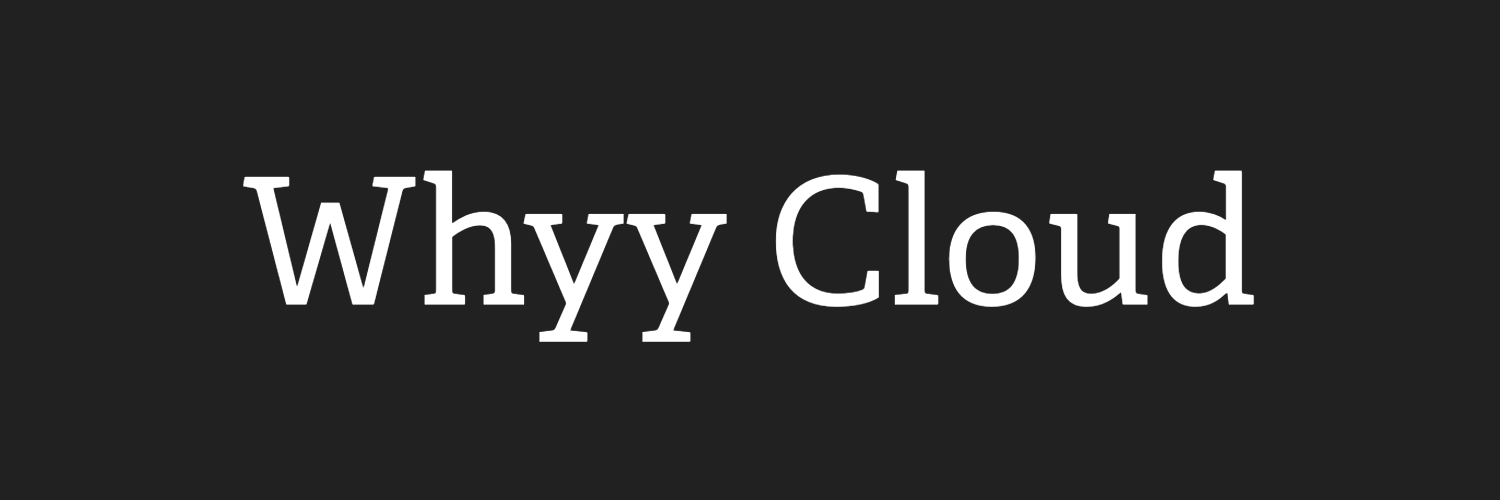
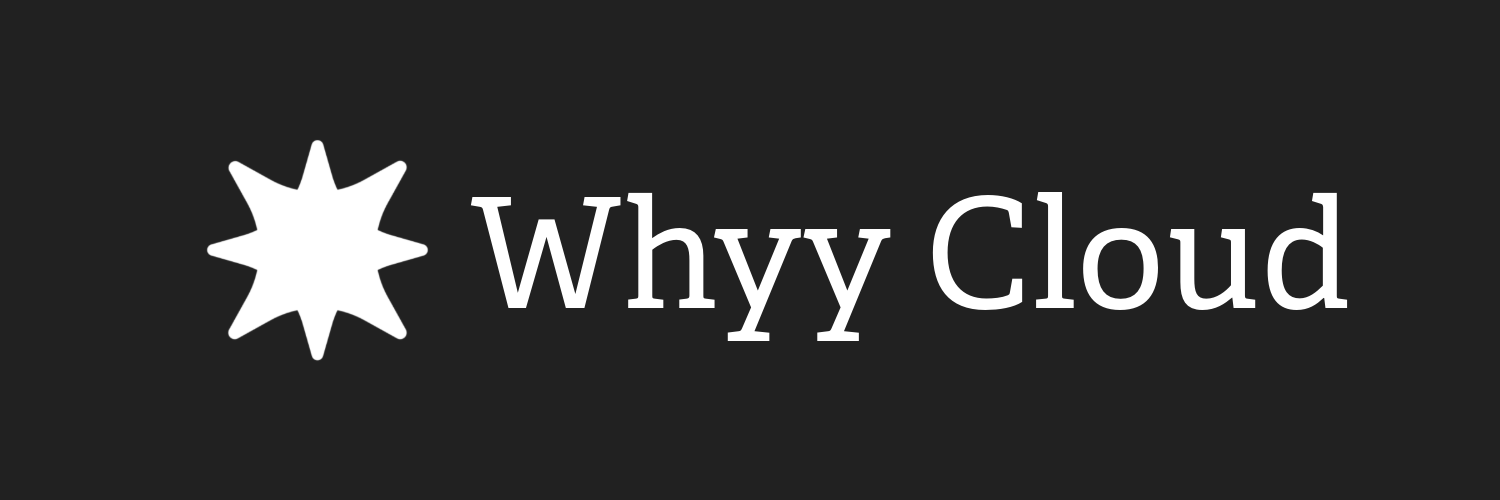
Updated Readme

Changed region(s): [[0.1227, 0.27, 0.92, 0.72]]

diff --git a/README.md b/README.md
@@ -1,17 +1,38 @@
-  <img src="assets/banner.png" alt="Whyy Cloud"/>
+<div align="center">
+  <img src="assets/WhyyCloud.png" width="128" height="128" alt="Whyy Cloud Logo"/>
+  <h1>Whyy Cloud</h1>
+  <p><strong>Portable AI — Run uncensored local LLMs natively on any device.</strong></p>
+</div>
 
-Whyy Cloud is a Flutter app for local AI chat workflows across mobile and desktop. Chats, settings, and model metadata stay on the device while the UI coordinates model loading, prompt control, logs, and a local API surface.
+<br/>
 
-## What It Does
+Whyy Cloud is a comprehensive Flutter application that brings powerful, privacy-first local AI chat workflows directly to your mobile and desktop devices. Every chat, setting, and model remains exclusively on your device. The refined UI coordinates seamless model loading, parameter adjustments, transparent logs, and an integrated local API surface.
 
-- Local chat UI with persistent history.
-- Adjustable temperature and system prompt controls.
-- Model library and model storage management.
-- Local API server support.
-- Logs for troubleshooting.
-- Light and dark themes.
+## Screenshots
 
-## App Flow
+<div align="center">
+  <img src="Screenshot/Sc-1.png" width="30%" alt="Screenshot 1"/>
+  <img src="Screenshot/Sc-2.png" width="30%" alt="Screenshot 2"/>
+  <img src="Screenshot/Sc-3.png" width="30%" alt="Screenshot 3"/>
+</div>
+
+## Features
+
+- **Local-First Execution:** 100% on-device inference using `llamadart` + `llama.cpp`. No internet required to chat.
+- **Persistent Chat History:** Store and manage conversations securely using Hive local storage.
+- **Over-The-Air (OTA) Models:** Download, manage, and run new models directly from the built-in library—no app updates required.
+- **Granular AI Controls:** Tweak generation settings like `Temperature`, `System Prompts`, and hardware compute devices (CPU/Vulkan/OpenCL).
+- **In-App Updater:** Automatically fetch the latest updates from the GitHub repository and install new APKs directly within the app.
+- **Local API Server:** Expose your loaded model to your local network with an OpenAI-compatible API endpoint for easy integration with other tools.
+- **Multimodal Support:** Voice inputs (Speech-to-Text), Text-to-Speech (TTS), and image/file attachments for vision models.
+- **Customizable UI:** Full dark/light mode support, aesthetic glassmorphism, and dynamic component styling.
+- **Deep Troubleshooting:** Built-in logs screen to monitor token generation speed, backend allocations, and diagnostic events.
+
+---
+
+## Architecture & App Flow
+
+The application is structured logically to ensure state management (via GetX) remains decoupled from the UI:
 
 ```mermaid
 flowchart TD
@@ -22,48 +43,64 @@ flowchart TD
 	D --> F[Hive Storage]
 	C --> G[Settings Screen]
 	G --> H[Theme Controller]
-	G --> I[Temperature / Prompt Settings]
+	G --> I[Update / App State Settings]
 	C --> J[Model Library]
-	J --> K[Model Manager]
+	J --> K[Model Manager (OTA)]
 	C --> L[Local API Server]
 	C --> M[Logs Screen]
 ```
 
-## Core Structure
+### Core Directory Structure
 
-- `lib/screens/` UI screens.
-- `lib/controllers/` app state and actions.
-- `lib/services/` model loading, storage, and API logic.
-- `lib/models/` data classes.
-- `lib/theme/` colors and theme setup.
-- `lib/routes/` navigation.
+| Directory | Purpose |
+| --- | --- |
+| `lib/screens/` | Distinct UI screens (Home, Settings, Models, Logs, API) |
+| `lib/controllers/` | GetX controllers managing reactive state and business logic |
+| `lib/services/` | Heavy lifting: LLM backend bindings, local storage, OTA downloads, WakeLock |
+| `lib/models/` | Immutable data classes and Hive type adapters |
+| `lib/theme/` | Centralized color palettes, typography, and styling constants |
+| `lib/widgets/` | Reusable UI components (Chat Bubbles, Model Cards, Input Bars) |
+| `lib/bindings/` | GetX dependency injection setup |
 
-## Startup
+---
 
-`lib/main.dart` initializes Flutter, Hive, adapters, settings, theme state, and then starts `GetMaterialApp`.
+## Getting Started
 
-## Build And Run
+### Prerequisites
 
-```bash
-flutter pub get
-flutter run
-flutter run -d emulator-5554
-flutter build apk --release
-```
-
-On this machine, Android builds work with:
-
+Ensure your Flutter environment is correctly set up.
+For Android development on this machine, ensure these paths are available:
 - `ANDROID_HOME=/Users/aditya/Library/Android/sdk`
 - `JAVA_HOME=/Applications/Android Studio.app/Contents/jbr/Contents/Home`
 
+### Build & Run
+
+```bash
+# Fetch dependencies
+flutter pub get
+
+# Run on the default connected device
+flutter run
+
+# Run on a specific emulator
+flutter run -d emulator-5554
+
+# Build a production-ready APK
+flutter build apk --release
+```
+
+---
+
 ## Release Signing
 
-Local release signing uses:
+Local release signing for Android uses a keystore configuration. The build pipeline looks for:
+1. `whyycloud.jks` in the project root.
+2. `android/key.properties` defining the keystore passwords and alias (`key0`).
 
-- `android/app/upload-keystore.jks`
-- `android/key.properties`
+If these files are missing, Gradle will automatically fall back to debug signing for local development.
 
-If those files are missing, release builds fall back to debug signing for local development.
+---
 
 ## License
-Use is limited by [LICENSE](LICENSE). You may study, fork, and improve the app for personal or educational use with attribution preserved, but you may not rebrand or present it as your own independent product.
+
+Use is limited by the `LICENSE` file. You may study, fork, and improve the app for personal or educational use with attribution preserved, but you may not rebrand or present it as your own independent product.